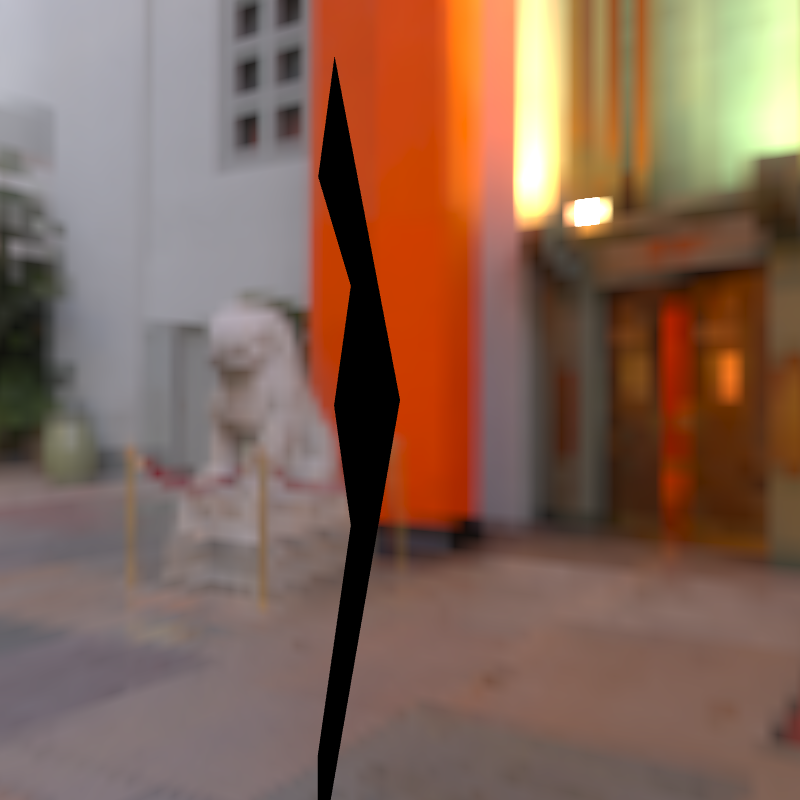
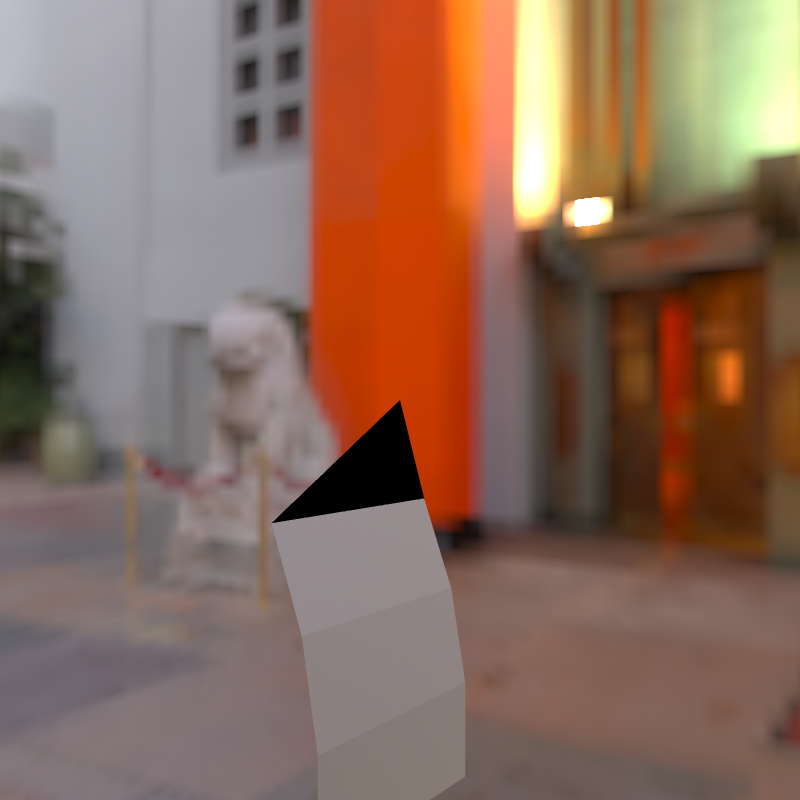
Add runtime support for vertices that have up to 8 jointweights

Changed region(s): [[0.3438, 0.0625, 0.5938, 1.0]]

diff --git a/Source/Runtime/GLTFConverter.cs b/Source/Runtime/GLTFConverter.cs
@@ -1649,40 +1649,59 @@ namespace AssetGenerator.Runtime
             }
             if (runtimeMeshPrimitive.VertexJointWeights != null && runtimeMeshPrimitive.VertexJointWeights.Any())
             {
-                int weightByteOffset = (int)geometryData.Writer.BaseStream.Position;
-                // get weights
-                var weights = runtimeMeshPrimitive.VertexJointWeights.Select(jointWeight => jointWeight.Select(jWeight => jWeight.Weight));
-
-                glTFLoader.Schema.Accessor.ComponentTypeEnum weightComponentType = glTFLoader.Schema.Accessor.ComponentTypeEnum.FLOAT;
-                var normalized = false;
-                foreach(var vertexJointWeights in runtimeMeshPrimitive.VertexJointWeights)
+                var totalSets = 1;
+                foreach (var vertexJointWeights in runtimeMeshPrimitive.VertexJointWeights)
                 {
                     var vertexJointWeightsCount = vertexJointWeights.Count();
                     if (vertexJointWeightsCount > 8)
                     {
                         throw new Exception("The number of weights per vertex cannot be greater than eight!");
                     }
-                    else
+                    else if (vertexJointWeightsCount > 4)
                     {
-                        int possibleJoints;
+                        totalSets = 2;
+                    }
+                }
+
+                for (int set = 0; set < totalSets; set++)
+                {
+                    var weightAccessorName = "WEIGHTS_0";
+                    var jointIndicesAccessorName = "JOINTS_0";
+                    int jointWeightIndexStartPosition = 0;
+                    if (set == 1)
+                    {
+                        weightAccessorName = "WEIGHTS_1";
+                        jointIndicesAccessorName = "JOINTS_1";
+                        jointWeightIndexStartPosition = 4;
+                    }
+
+                    int weightByteOffset = (int)geometryData.Writer.BaseStream.Position;
+                    // get weights
+                    var weights = runtimeMeshPrimitive.VertexJointWeights.Select(jointWeight => jointWeight.Select(jWeight => jWeight.Weight));
+
+                    glTFLoader.Schema.Accessor.ComponentTypeEnum weightComponentType = glTFLoader.Schema.Accessor.ComponentTypeEnum.FLOAT;
+                    var normalized = false;
+                    foreach (var vertexJointWeights in runtimeMeshPrimitive.VertexJointWeights)
+                    {
+                        var vertexJointWeightsCount = vertexJointWeights.Count();
+                        var jointWeightIndexEndPosition = vertexJointWeightsCount;
                         if (vertexJointWeightsCount > 4)
                         {
-                            possibleJoints = 8;
+                            vertexJointWeightsCount = 4;
+                            jointWeightIndexEndPosition = jointWeightIndexStartPosition + 4;
                         }
-                        else
-                        {
-                            possibleJoints = 4;
-                        }
+
+                        var vertexJointWeightsList = (List<JointWeight>)vertexJointWeights;
 
                         switch (runtimeMeshPrimitive.WeightComponentType)
                         {
                             case MeshPrimitive.WeightComponentTypeEnum.FLOAT:
                                 weightComponentType = glTFLoader.Schema.Accessor.ComponentTypeEnum.FLOAT;
-                                foreach(var jointWeight in vertexJointWeights)
+                                for (int i = jointWeightIndexStartPosition; i < jointWeightIndexEndPosition; i++)
                                 {
-                                    geometryData.Writer.Write(jointWeight.Weight);
+                                    geometryData.Writer.Write(vertexJointWeightsList[i].Weight);
                                 }
-                                for (int i = vertexJointWeightsCount; i < possibleJoints; ++i)
+                                for (int i = vertexJointWeightsCount; i < 4; ++i)
                                 {
                                     geometryData.Writer.Write(0.0f);
                                 }
@@ -1690,11 +1709,11 @@ namespace AssetGenerator.Runtime
                             case MeshPrimitive.WeightComponentTypeEnum.NORMALIZED_UNSIGNED_BYTE:
                                 weightComponentType = glTFLoader.Schema.Accessor.ComponentTypeEnum.UNSIGNED_BYTE;
                                 normalized = true;
-                                foreach (var jointWeight in vertexJointWeights)
+                                for (int i = jointWeightIndexStartPosition; i < jointWeightIndexEndPosition; i++)
                                 {
-                                    geometryData.Writer.Write(Convert.ToByte(Math.Round(jointWeight.Weight * byte.MaxValue)));
+                                    geometryData.Writer.Write(Convert.ToByte(Math.Round(vertexJointWeightsList[i].Weight * byte.MaxValue)));
                                 }
-                                for (int i = vertexJointWeightsCount; i < possibleJoints; ++i)
+                                for (int i = vertexJointWeightsCount; i < 4; ++i)
                                 {
                                     geometryData.Writer.Write(Convert.ToByte(0));
                                 }
@@ -1702,11 +1721,11 @@ namespace AssetGenerator.Runtime
                             case MeshPrimitive.WeightComponentTypeEnum.NORMALIZED_UNSIGNED_SHORT:
                                 weightComponentType = glTFLoader.Schema.Accessor.ComponentTypeEnum.UNSIGNED_SHORT;
                                 normalized = true;
-                                foreach (var jointWeight in vertexJointWeights)
+                                for (int i = jointWeightIndexStartPosition; i < jointWeightIndexEndPosition; i++)
                                 {
-                                    geometryData.Writer.Write(Convert.ToUInt16(Math.Round(jointWeight.Weight * ushort.MaxValue)));
+                                    geometryData.Writer.Write(Convert.ToUInt16(Math.Round(vertexJointWeightsList[i].Weight * ushort.MaxValue)));
                                 }
-                                for (int i = vertexJointWeightsCount; i < possibleJoints; ++i)
+                                for (int i = vertexJointWeightsCount; i < 4; ++i)
                                 {
                                     geometryData.Writer.Write(Convert.ToUInt16(0));
                                 }
@@ -1715,67 +1734,59 @@ namespace AssetGenerator.Runtime
                                 throw new NotImplementedException("The weight component type is not supported!");
                         }
                     }
-                }
 
-                var weightByteLength = (int)geometryData.Writer.BaseStream.Position - weightByteOffset;
+                    var weightByteLength = (int)geometryData.Writer.BaseStream.Position - weightByteOffset;
 
-                var bufferView = CreateBufferView(bufferIndex, "weights buffer view", weightByteLength, weightByteOffset, null);
-                bufferViews.Add(bufferView);
+                    var bufferView = CreateBufferView(bufferIndex, "weights buffer view", weightByteLength, weightByteOffset, null);
+                    bufferViews.Add(bufferView);
 
-                // Pad any additional bytes if byteLength is not a multiple of 4
-                Align(geometryData, weightByteLength, 4);
+                    // Pad any additional bytes if byteLength is not a multiple of 4
+                    Align(geometryData, weightByteLength, 4);
 
-                var weightAccessor = CreateAccessor(bufferViews.Count() - 1, 0, weightComponentType, weights.Count(), "weights accessor", null, null, glTFLoader.Schema.Accessor.TypeEnum.VEC4, normalized);
-                accessors.Add(weightAccessor);
-                attributes.Add("WEIGHTS_0", accessors.Count() - 1);
+                    var weightAccessor = CreateAccessor(bufferViews.Count() - 1, 0, weightComponentType, weights.Count(), "weights accessor", null, null, glTFLoader.Schema.Accessor.TypeEnum.VEC4, normalized);
+                    accessors.Add(weightAccessor);
+                    attributes.Add(weightAccessorName, accessors.Count() - 1);
 
-                glTFLoader.Schema.Accessor.ComponentTypeEnum jointAccessorComponentType = glTFLoader.Schema.Accessor.ComponentTypeEnum.UNSIGNED_SHORT;
-                var jointByteOffset = (int)geometryData.Writer.BaseStream.Position;
+                    glTFLoader.Schema.Accessor.ComponentTypeEnum jointAccessorComponentType = glTFLoader.Schema.Accessor.ComponentTypeEnum.UNSIGNED_SHORT;
+                    var jointByteOffset = (int)geometryData.Writer.BaseStream.Position;
 
-                foreach(var vertexJointWeights in runtimeMeshPrimitive.VertexJointWeights)
-                {
-                    var vertexJointWeightsCount = vertexJointWeights.Count();
-                    if (vertexJointWeightsCount > 8)
+                    foreach (var vertexJointWeights in runtimeMeshPrimitive.VertexJointWeights)
                     {
-                        throw new Exception("The number of joints per vertex cannot be greater than eight!");
-                    }
-                    else
-                    {
-                        int possibleJoints;
+                        var vertexJointWeightsCount = vertexJointWeights.Count();
+                        var jointWeightIndexEndPosition = vertexJointWeightsCount;
                         if (vertexJointWeightsCount > 4)
                         {
-                            possibleJoints = 8;
+                            vertexJointWeightsCount = 4;
+                            jointWeightIndexEndPosition = jointWeightIndexStartPosition + 4;
                         }
-                        else
-                        {
-                            possibleJoints = 4;
-                        }
+
+                        var vertexJointWeightsList = (List<JointWeight>)vertexJointWeights;
 
                         switch (runtimeMeshPrimitive.JointComponentType)
                         {
                             case MeshPrimitive.JointComponentTypeEnum.UNSIGNED_BYTE:
                                 jointAccessorComponentType = glTFLoader.Schema.Accessor.ComponentTypeEnum.UNSIGNED_BYTE;
-                                foreach (var jointWeight in vertexJointWeights)
+                                for (int i = jointWeightIndexStartPosition; i < jointWeightIndexEndPosition; i++)
                                 {
-                                    var x = runtimeNode.Skin.SkinJoints.IndexOf(jointWeight.Joint);
+                                    var x = runtimeNode.Skin.SkinJoints.IndexOf(vertexJointWeightsList[i].Joint);
                                     if (x < 0)
                                     {
                                         throw new Exception("joint cannot be found in skin joints!");
                                     }
-                                    geometryData.Writer.Write(Convert.ToByte(runtimeNode.Skin.SkinJoints.IndexOf(jointWeight.Joint)));
+                                    geometryData.Writer.Write(Convert.ToByte(runtimeNode.Skin.SkinJoints.IndexOf(vertexJointWeightsList[i].Joint)));
                                 }
-                                for(int i = vertexJointWeightsCount; i < possibleJoints; ++i)
+                                for (int i = vertexJointWeightsCount; i < 4; ++i)
                                 {
                                     geometryData.Writer.Write(Convert.ToByte(0));
                                 }
                                 break;
                             case MeshPrimitive.JointComponentTypeEnum.UNSIGNED_SHORT:
                                 jointAccessorComponentType = glTFLoader.Schema.Accessor.ComponentTypeEnum.UNSIGNED_SHORT;
-                                foreach (var jointWeight in vertexJointWeights)
+                                for (int i = jointWeightIndexStartPosition; i < jointWeightIndexEndPosition; i++)
                                 {
-                                    geometryData.Writer.Write(Convert.ToUInt16(runtimeNode.Skin.SkinJoints.IndexOf(jointWeight.Joint)));
+                                    geometryData.Writer.Write(Convert.ToUInt16(runtimeNode.Skin.SkinJoints.IndexOf(vertexJointWeightsList[i].Joint)));
                                 }
-                                for (int i = vertexJointWeightsCount; i < possibleJoints; ++i)
+                                for (int i = vertexJointWeightsCount; i < 4; ++i)
                                 {
                                     geometryData.Writer.Write(Convert.ToUInt16(0));
                                 }
@@ -1784,18 +1795,18 @@ namespace AssetGenerator.Runtime
                                 throw new NotImplementedException("The joint component type is not supported!");
                         }
                     }
+
+                    int jointIndicesByteLength = (int)geometryData.Writer.BaseStream.Position - jointByteOffset;
+                    // Pad any additional bytes if byteLength is not a multiple of 4
+                    Align(geometryData, jointIndicesByteLength, 4);
+
+                    var jointIndicesBufferView = CreateBufferView(bufferIndex, "joint indices buffer view", jointIndicesByteLength, jointByteOffset, null);
+                    bufferViews.Add(jointIndicesBufferView);
+
+                    var jointIndicesAccessor = CreateAccessor(bufferViews.Count() - 1, 0, jointAccessorComponentType, runtimeMeshPrimitive.VertexJointWeights.Count(), "joint indices accessor", null, null, glTFLoader.Schema.Accessor.TypeEnum.VEC4, false);
+                    accessors.Add(jointIndicesAccessor);
+                    attributes.Add(jointIndicesAccessorName, accessors.Count() - 1);
                 }
-
-                int jointIndicesByteLength = (int)geometryData.Writer.BaseStream.Position - jointByteOffset;
-                // Pad any additional bytes if byteLength is not a multiple of 4
-                Align(geometryData, jointIndicesByteLength, 4);
-
-                var jointIndicesBufferView = CreateBufferView(bufferIndex, "joint indices buffer view", jointIndicesByteLength, jointByteOffset, null);
-                bufferViews.Add(jointIndicesBufferView);
-
-                var jointIndicesAccessor = CreateAccessor(bufferViews.Count() - 1, 0, jointAccessorComponentType, runtimeMeshPrimitive.VertexJointWeights.Count(), "joint indices accessor", null, null, glTFLoader.Schema.Accessor.TypeEnum.VEC4, false);
-                accessors.Add(jointIndicesAccessor);
-                attributes.Add("JOINTS_0", accessors.Count() - 1);
             }
 
             schemaMeshPrimitive.Attributes = attributes;

diff --git a/Source/ModelGroups/Animation_Skin.cs b/Source/ModelGroups/Animation_Skin.cs
@@ -386,7 +386,7 @@ namespace AssetGenerator
                             int weightToUse = 0;
                             // Set the weight to 1 if the skinJoint is at the same level as the vertex.
                             // Or Set the weight to 1 if the vertex is further out than the last skinjoint and the last skinjoint is being set.
-                            if (skinJointIndex == (weightIndex / 2) || (((weightIndex / 2) > skinJointList.Count) && (skinJointIndex == skinJointList.Count)) )
+                            if (skinJointIndex == (weightIndex / 2) || (((weightIndex / 2) > skinJointList.Count - 1) && (skinJointIndex == skinJointList.Count - 1)) )
                             {
                                 weightToUse = 1;
                             }
